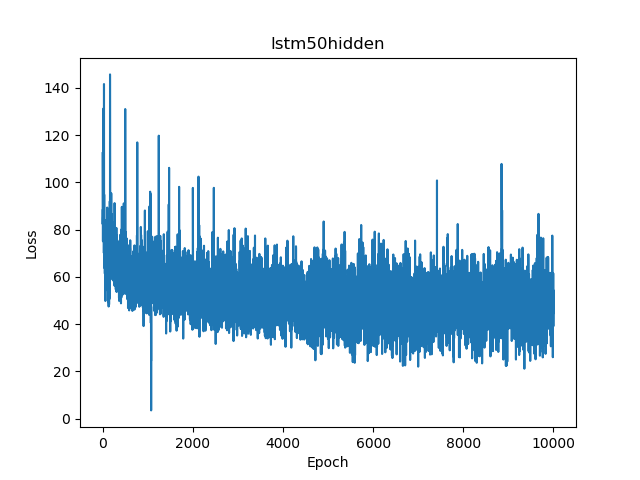
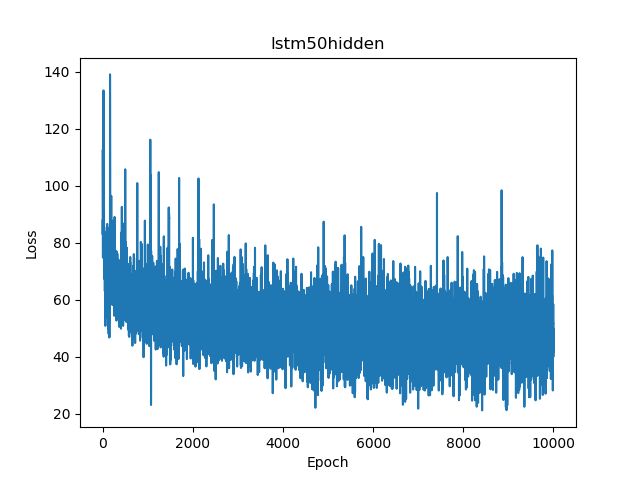
Update6

diff --git a/main.py b/main.py
@@ -43,6 +43,8 @@ print("Using vocabulary size %d." % len(index_to_char))
 print("The least frequent word in our vocabulary is '%s' and appeared %d times." % (vocab[-1][0], vocab[-1][1]))
 print(char_freq.most_common(10))
 f = open('report.doc', 'w')
+# f = open('grad.doc', 'w') # swap file open for grad checking models.
+
 # Create the training data
 XTrain = np.asarray([[char_to_index[w] for w in sent[:-1]] for sent in toke_n])
 yTrain = np.asarray([[char_to_index[w] for w in sent[1:]] for sent in toke_n])
@@ -51,17 +53,34 @@ x_example, y_example = XTrain[42], yTrain[42]
 print("x:\n%s\n%s" % (" ".join([index_to_char[x] for x in x_example]), x_example))
 print("\ny:\n%s\n%s" % (" ".join([index_to_char[x] for x in y_example]), y_example))
 # ++++++++++++++++++++++++Gradient Check++++++++++++++++++++++++++++++++++++++++++++
-# np.random.seed(10)
-# grad_check_vocab_size = 100
-# model = rnn.RNNVanilla(grad_check_vocab_size, 10, bptt_truncate=1000)
-# model.gradient_check([31, 40, 20, 43], [40, 20, 43, 50], f)
-# # ========================rnn vanilla 100 hidden units==============================
-# model = rnn.RNNVanilla(len(index_to_char))
-# # Limit to 1000 examples to save time
-# print("Expected Loss for random predictions: %f" % np.log(len(index_to_char)))
-# print("Actual loss: %f" % model.calculate_loss(XTrain[:1000], yTrain[:1000]))
-# f.write("Expected Loss for random predictions: %f\n" % np.log(len(index_to_char)))
-# f.write("Actual loss: %f\n" % model.calculate_loss(XTrain[:1000], yTrain[:1000]))
+# grad_check_vocab_size = 256
+# model = rnn.RNNVanilla(grad_check_vocab_size, 100, bptt_truncate=4)
+# model.gradient_check(XTrain[42], yTrain[42], f)
+# model = rnn.RNNVanilla(grad_check_vocab_size, 50, bptt_truncate=4)
+# model.gradient_check(XTrain[42], yTrain[42], f)
+# model = rnn.RNNVanilla(grad_check_vocab_size, 200, bptt_truncate=4)
+# model.gradient_check(XTrain[42], yTrain[42], f)
+# toke_n = []
+# for i in range(len(toke_sent)):
+#     if len(toke_sent[i]) == 25:
+#         toke_n.append(toke_sent[i])
+# # Create the training data for the new sequence
+# XTrain = np.asarray([[char_to_index[w] for w in sent[:-1]] for sent in toke_n])
+# yTrain = np.asarray([[char_to_index[w] for w in sent[1:]] for sent in toke_n])
+# model = rnn.RNNVanilla(grad_check_vocab_size, 100, bptt_truncate=4)
+# model.gradient_check(XTrain[42], yTrain[42], f)
+# toke_n = []
+# for i in range(len(toke_sent)):
+#     if len(toke_sent[i]) == 100:
+#         toke_n.append(toke_sent[i])
+# # Create the training data for the new sequence
+# XTrain = np.asarray([[char_to_index[w] for w in sent[:-1]] for sent in toke_n])
+# yTrain = np.asarray([[char_to_index[w] for w in sent[1:]] for sent in toke_n])
+# model = rnn.RNNVanilla(grad_check_vocab_size, 100, bptt_truncate=4)
+# model.gradient_check(XTrain[42], yTrain[42], f)
+# f.close()
+# +++++++++++++++++++++++++++++++++++++++end grad checking++++++++++++++++++++++++++++++++++++++++++++++++++++++++++
+# =========================rnn vanilla 100 hidden units=============================================================
 
 loss = []
 # Train
@@ -107,42 +126,42 @@ loss.append(L)
 f.close()
 # # +++++++++++++++++++++++++++++++++++++++++++++++++++++++++++++++++++++++++++++++++++++++++++++++++++++++++++++++++++
 # ************************************LSTM Start***********************************************************************
-# data = ''
-# for file in os.listdir('stories'):
-#     with open('stories/'+file, encoding='utf8') as f:
-#         data = data + f.read()
-#
-# chars = list(set(data))
-# data_size, X_size = len(data), len(chars)
-# f = open('reportlstm.doc', 'w')
-# print("data has %d characters, %d unique" % (data_size, X_size))
-# f.write("data has %d characters, %d unique\n" % (data_size, X_size))
-# char_to_idx = {ch: i for i, ch in enumerate(chars)}
-# idx_to_char = {i: ch for i, ch in enumerate(chars)}
-#
-# print(data_size)
-# print(X_size)
-# print(char_to_idx)
-# print(idx_to_char)
-# # Constants and hyper-params
-# H_size = 100  # Size of the hidden layer
-# T_steps = 25  # Number of time steps (length of the sequence) used for training
-# learning_rate = 1e-1  # Learning rate
-# weight_sd = 0.1  # Standard deviation of weights for initialization
-# z_size = H_size + X_size  # Size of concatenate(H, X) vector
-#
-# lstm.lstm(f, H_size, z_size, weight_sd, X_size, learning_rate, T_steps, data, idx_to_char, char_to_idx, 'lstm100hidden')
-# H_size = 50
-# z_size = H_size + X_size
-# lstm.lstm(f, H_size, z_size, weight_sd, X_size, learning_rate, T_steps, data, idx_to_char, char_to_idx, 'lstm50hidden')
-# H_size = 200
-# z_size = H_size + X_size
-# lstm.lstm(f, H_size, z_size, weight_sd, X_size, learning_rate, T_steps, data, idx_to_char, char_to_idx, 'lstm200hidden')
-# H_size = 100
-# z_size = H_size + X_size
-# T_steps = 15
-# lstm.lstm(f, H_size, z_size, weight_sd, X_size, learning_rate, T_steps, data, idx_to_char, char_to_idx, 'lstmSeq15')
-# T_steps = 50
-# lstm.lstm(f, H_size, z_size, weight_sd, X_size, learning_rate, T_steps, data, idx_to_char, char_to_idx, 'lstmSeq50')
-#
-# f.close()
+data = ''
+for file in os.listdir('stories'):
+    with open('stories/'+file, encoding='utf8') as f:
+        data = data + f.read()
+
+chars = list(set(data))
+data_size, X_size = len(data), len(chars)
+f = open('reportlstm.doc', 'w')
+print("data has %d characters, %d unique" % (data_size, X_size))
+f.write("data has %d characters, %d unique\n" % (data_size, X_size))
+char_to_idx = {ch: i for i, ch in enumerate(chars)}
+idx_to_char = {i: ch for i, ch in enumerate(chars)}
+
+print(data_size)
+print(X_size)
+print(char_to_idx)
+print(idx_to_char)
+# Constants and hyper-params
+H_size = 100  # Size of the hidden layer
+T_steps = 25  # Number of time steps (length of the sequence) used for training
+learning_rate = 1e-1  # Learning rate
+weight_sd = 0.1  # Standard deviation of weights for initialization
+z_size = H_size + X_size  # Size of concatenate(H, X) vector
+
+lstm.lstm(f, H_size, z_size, weight_sd, X_size, learning_rate, T_steps, data, idx_to_char, char_to_idx, 'lstm100hidden')
+H_size = 50
+z_size = H_size + X_size
+lstm.lstm(f, H_size, z_size, weight_sd, X_size, learning_rate, T_steps, data, idx_to_char, char_to_idx, 'lstm50hidden')
+H_size = 200
+z_size = H_size + X_size
+lstm.lstm(f, H_size, z_size, weight_sd, X_size, learning_rate, T_steps, data, idx_to_char, char_to_idx, 'lstm200hidden')
+H_size = 100
+z_size = H_size + X_size
+T_steps = 15
+lstm.lstm(f, H_size, z_size, weight_sd, X_size, learning_rate, T_steps, data, idx_to_char, char_to_idx, 'lstmSeq15')
+T_steps = 50
+lstm.lstm(f, H_size, z_size, weight_sd, X_size, learning_rate, T_steps, data, idx_to_char, char_to_idx, 'lstmSeq50')
+
+f.close()
